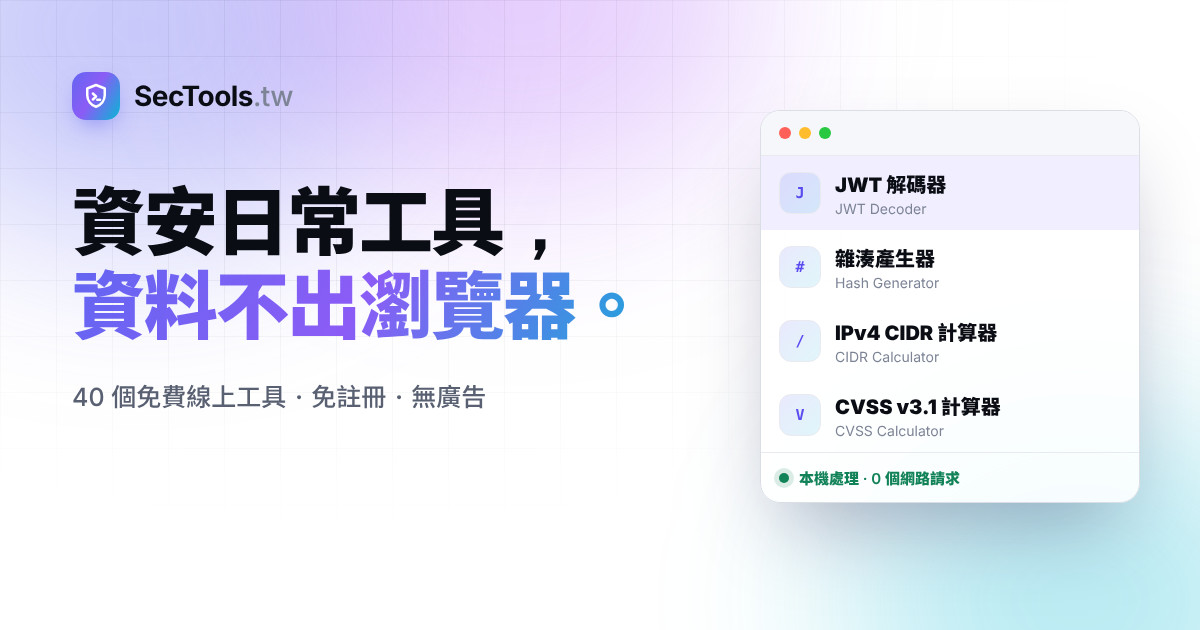
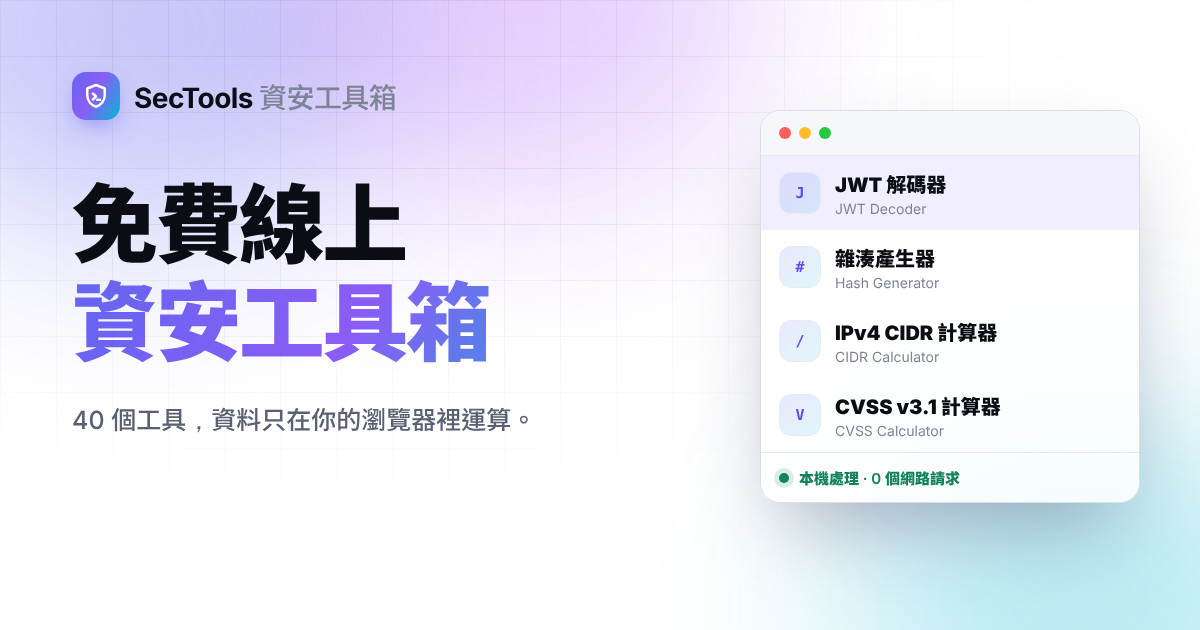
feat: name the site "SecTools 資安工具箱" with a keyword-first headline
- Brand name SecTools 資安工具箱 across logo, titles, Open Graph,
  manifest, structured data (alternate names SecTools / SecTools.tw)
- Home H1 「免費線上資安工具箱」 with subtitle and shorter lead
- Title template "%s｜SecTools 資安工具箱"; OG image updated

Claude-Session: https://claude.ai/code/session_01WmgTxuYVteLz1TVuK1VfHj

Changed region(s): [[0.0617, 0.2714, 0.5242, 0.573], [0.0617, 0.6032, 0.4317, 0.6937], [0.0925, 0.1206, 0.3392, 0.181]]

diff --git a/app/globals.css b/app/globals.css
@@ -113,8 +113,9 @@ kbd { display: inline-block; min-width: 20px; border: 1px solid var(--line-dark)
 .brand { display: inline-flex; align-items: center; gap: 10px; flex: 0 0 auto; }
 .brand-mark { width: 30px; height: 30px; display: grid; place-items: center; border-radius: 9px; background: var(--grad); box-shadow: 0 4px 14px -4px rgba(99, 102, 241, .6), inset 0 1px 0 rgba(255,255,255,.3); }
 .brand-mark svg { width: 19px; height: 19px; fill: none; stroke: #fff; stroke-width: 2; stroke-linecap: round; stroke-linejoin: round; }
+.brand-copy { display: flex; align-items: baseline; gap: 8px; }
 .brand-copy strong { font-size: 16px; font-weight: 700; letter-spacing: -.02em; }
-.brand-copy strong span { color: var(--subtle); font-weight: 500; }
+.brand-copy small { color: var(--muted); font-size: 13px; font-weight: 500; }
 .site-header nav { display: flex; gap: 4px; align-items: center; font-size: 14px; color: var(--muted); }
 .site-header nav a { padding: 7px 12px; border-radius: 999px; transition: color .2s, background .2s; }
 .site-header nav a:hover { color: var(--ink); background: var(--surface-2); }
@@ -173,7 +174,8 @@ kbd { display: inline-block; min-width: 20px; border: 1px solid var(--line-dark)
 .hero__badge:hover { border-color: var(--orange); box-shadow: 0 0 0 4px rgba(99, 102, 241, .1); }
 .hero__badge b { display: grid; place-items: center; width: 22px; height: 22px; border-radius: 50%; background: var(--surface-2); color: var(--orange); font-weight: 600; }
 .hero h1 { margin: 28px 0 0; font-size: clamp(42px, 7vw, 84px); line-height: 1.08; letter-spacing: -.045em; font-weight: 800; }
-.hero__lead { max-width: 680px; margin: 24px 0 36px; color: var(--muted); font-size: 18px; line-height: 1.8; }
+.hero__subtitle { margin: 22px 0 0; color: var(--ink-2); font-size: clamp(19px, 2.4vw, 24px); font-weight: 600; letter-spacing: -.01em; text-wrap: balance; }
+.hero__lead { max-width: 640px; margin: 14px 0 36px; color: var(--muted); font-size: 17px; line-height: 1.8; }
 .hero-search { width: min(640px, 100%); height: 60px; display: flex; align-items: center; gap: 12px; padding: 0 12px 0 20px; border: 1px solid var(--line-dark); border-radius: 999px; background: var(--glass); backdrop-filter: blur(14px); -webkit-backdrop-filter: blur(14px); box-shadow: var(--shadow); transition: border-color .2s, box-shadow .2s; }
 .hero-search:focus-within { border-color: var(--orange); box-shadow: 0 0 0 5px rgba(99, 102, 241, .14), var(--shadow); }
 .hero-search__icon { color: var(--subtle); width: 19px; height: 19px; }
@@ -698,8 +700,9 @@ kbd { display: inline-block; min-width: 20px; border: 1px solid var(--line-dark)
   .site-header { height: 58px; }
   .site-header__inner { gap: 12px; }
   .hero__inner { padding: 52px 0 40px; }
-  .hero h1 { margin-top: 22px; font-size: clamp(32px, 10.5vw, 44px); }
-  .hero__lead { margin: 18px 0 26px; font-size: 15.5px; }
+  .hero h1 { margin-top: 22px; font-size: clamp(40px, 13.5vw, 56px); }
+  .hero__subtitle { margin-top: 16px; }
+  .hero__lead { margin: 10px 0 26px; font-size: 15px; }
   .hero-search { height: 54px; padding: 0 10px 0 16px; }
   .hero-search kbd { display: none; }
   .hero__glow span:nth-child(1) { width: 300px; height: 300px; }

diff --git a/app/[slug]/page.tsx b/app/[slug]/page.tsx
@@ -4,7 +4,7 @@ import { notFound } from "next/navigation";
 import { SiteFooter, SiteHeader } from "@/components/site-shell";
 import { ToolActions } from "@/components/tool-actions";
 import { ToolWorkbench } from "@/components/tool-workbench";
-import { absoluteUrl, jsonLd, siteLocale, siteUrl } from "@/lib/site";
+import { absoluteUrl, jsonLd, siteLocale, siteName, siteUrl } from "@/lib/site";
 import { categoryOf, findTool, relatedTools, toolCatalog } from "@/lib/tool-catalog";
 
 export const dynamicParams = false;
@@ -27,13 +27,13 @@ export async function generateMetadata({ params }: { params: Promise<{ slug: str
     openGraph: {
       type: "website",
       locale: "zh_TW",
-      siteName: "SecTools.tw Toolkit",
-      title: `${title}｜SecTools.tw`,
+      siteName,
+      title: `${title}｜${siteName}`,
       description,
       url: `/${tool.slug}/`,
-      images: [{ url: "/og.jpg", width: 1200, height: 630, alt: `${tool.name}｜SecTools.tw 資安工具箱` }],
+      images: [{ url: "/og.jpg", width: 1200, height: 630, alt: `${tool.name}｜${siteName}` }],
     },
-    twitter: { card: "summary_large_image", title: `${tool.name}｜SecTools.tw`, description, images: ["/og.jpg"] },
+    twitter: { card: "summary_large_image", title: `${tool.name}｜${siteName}`, description, images: ["/og.jpg"] },
   };
 }
 
@@ -50,7 +50,7 @@ export default async function ToolPage({ params }: { params: Promise<{ slug: str
   };
   const faqs = [
     { question: `${tool.name}會上傳我的資料嗎？`, answer: "不會。工具不會發出任何網路請求，輸入與結果只存在目前的分頁。打開開發者工具的 Network 面板，就能自己確認。" },
-    { question: `${tool.name}要付費或註冊嗎？`, answer: `都不用。${tool.name}和 SecTools.tw 上的其他工具一樣，免費、免帳號，也沒有次數限制。` },
+    { question: `${tool.name}要付費或註冊嗎？`, answer: `都不用。${tool.name}和 SecTools 資安工具箱裡的其他工具一樣，免費、免帳號，也沒有次數限制。` },
     { question: `手機或離線環境可以用${tool.name}嗎？`, answer: "可以。手機與電腦瀏覽器都能使用，頁面載入後斷網也能繼續運算。需要在內網使用，也可以從 GitHub 取得原始碼自行部署。" },
     { question: `${tool.name}的結果可以直接當作正式判定嗎？`, answer: "建議當作初步分析與交叉比對使用。重要事件請保留原始證據，並以正式的驗證或鑑識流程確認。" },
   ];

diff --git a/app/about/page.tsx b/app/about/page.tsx
@@ -1,20 +1,21 @@
 import type { Metadata } from "next";
 import Link from "next/link";
 import { SiteFooter, SiteHeader } from "@/components/site-shell";
+import { siteName } from "@/lib/site";
 import { categories, toolCatalog } from "@/lib/tool-catalog";
 
 export const metadata: Metadata = {
-  title: "關於 SecTools.tw 與隱私承諾",
-  description: "SecTools.tw Toolkit 是開放原始碼、完全在瀏覽器本機運算的繁體中文資安工具箱。了解我們如何處理資料、本機儲存哪些設定，以及如何自行驗證。",
+  title: "關於我們與隱私承諾",
+  description: "SecTools 資安工具箱是開放原始碼、完全在瀏覽器本機運算的繁體中文資安工具箱。了解我們如何處理資料、本機儲存哪些設定，以及如何自行驗證。",
   alternates: { canonical: "/about/" },
   openGraph: {
     type: "website",
     locale: "zh_TW",
-    siteName: "SecTools.tw Toolkit",
-    title: "關於 SecTools.tw 與隱私承諾",
+    siteName,
+    title: `關於 ${siteName}與隱私承諾`,
     description: "開放原始碼、完全在瀏覽器本機運算的繁體中文資安工具箱：不上傳、不追蹤、可自行部署。",
     url: "/about/",
-    images: [{ url: "/og.jpg", width: 1200, height: 630, alt: "SecTools.tw 免費線上資安工具箱" }],
+    images: [{ url: "/og.jpg", width: 1200, height: 630, alt: siteName }],
   },
 };
 
@@ -36,9 +37,9 @@ export default function AboutPage() {
               <Link href="/">工具庫</Link><span aria-hidden="true">/</span><strong aria-current="page">關於與隱私</strong>
             </nav>
             <span className="section-kicker">ABOUT · PRIVACY</span>
-            <h1>關於 SecTools.tw</h1>
+            <h1>關於 SecTools 資安工具箱</h1>
             <p className="category-hero__lead">
-              SecTools.tw Toolkit 是給資安工程師、SOC 分析師、開發者與 CTF 選手的免費工作台。我們相信處理 Token、日誌與惡意樣本時，
+              SecTools 資安工具箱是給資安工程師、SOC 分析師、開發者與 CTF 選手的免費工作台。我們相信處理 Token、日誌與惡意樣本時，
               最安全的做法是讓資料根本不離開你的電腦——所以 {toolCatalog.length} 個工具全部在瀏覽器本機執行。
             </p>
           </div>

diff --git a/app/page.tsx b/app/page.tsx
@@ -12,7 +12,7 @@ export default function Home() {
       "@type": "WebSite",
       "@id": `${siteUrl}/#website`,
       name: siteName,
-      alternateName: ["SecTools", "SecTools.tw 資安工具箱"],
+      alternateName: ["SecTools", "SecTools.tw", "資安工具箱"],
       url: `${siteUrl}/`,
       inLanguage: siteLocale,
       description: "免費線上資安工具箱，所有運算都在瀏覽器本機完成，資料不會上傳。",
@@ -35,7 +35,7 @@ export default function Home() {
     {
       "@context": "https://schema.org",
       "@type": "ItemList",
-      name: "SecTools.tw 線上資安工具",
+      name: `${siteName}：線上資安工具清單`,
       numberOfItems: toolCatalog.length,
       itemListElement: toolCatalog.map((tool, index) => ({
         "@type": "ListItem",
@@ -58,7 +58,7 @@ export default function Home() {
             <div className="section-heading section-heading--center">
               <span className="section-kicker">WHY SECTOOLS</span>
               <h2 id="features-title">敏感資料，留在你的電腦裡。</h2>
-              <p>多數線上工具會把你貼上的內容送到伺服器處理。SecTools.tw 不這麼做：所有運算都由瀏覽器內建的 JavaScript 與 Web Crypto API 完成。</p>
+              <p>多數線上工具會把你貼上的內容送到伺服器處理。SecTools 不這麼做：所有運算都由瀏覽器內建的 JavaScript 與 Web Crypto API 完成。</p>
             </div>
             <div className="bento">
               <article className="bento__card bento__card--hero">

diff --git a/app/layout.tsx b/app/layout.tsx
@@ -7,14 +7,14 @@ import "./globals.css";
 const inter = localFont({ src: "./fonts/inter-latin-var.woff2", variable: "--font-inter", weight: "100 900", display: "swap" });
 
 const toolCount = toolCatalog.length;
-const shareTitle = `SecTools.tw｜${toolCount} 個免費線上資安工具，資料不出瀏覽器`;
+const shareTitle = `${siteName}｜${toolCount} 個免費線上資安工具`;
 const shareDescription = `JWT 解碼、Hash、CIDR、CVSS、IOC、PCAP 與 CTF 工具一次收齊。免註冊、無廣告，貼上的內容只在你的電腦上運算。`;
 
 export const metadata: Metadata = {
   metadataBase: new URL(siteUrl),
   title: {
-    default: "免費線上資安工具箱：JWT 解碼、Hash、CIDR、CVSS 與 CTF 工具｜SecTools.tw",
-    template: "%s｜SecTools.tw",
+    default: `${siteName}｜免費線上 JWT、Hash、CIDR、CVSS 與 CTF 工具`,
+    template: `%s｜${siteName}`,
   },
   description: `${toolCount} 個免費線上資安工具：JWT 解碼與驗簽、Hash／HMAC、CIDR 與 IPv6 計算、CVSS 評分、IOC 擷取、PCAP 分析與 CTF 解題。免註冊、無廣告，資料全程在瀏覽器處理，不會上傳。`,
   applicationName: siteName,
@@ -44,7 +44,7 @@ export const metadata: Metadata = {
     title: shareTitle,
     description: shareDescription,
     url: "/",
-    images: [{ url: "/og.jpg", width: 1200, height: 630, alt: "SecTools.tw 免費線上資安工具箱" }],
+    images: [{ url: "/og.jpg", width: 1200, height: 630, alt: siteName }],
   },
   twitter: {
     card: "summary_large_image",

diff --git a/components/home-client.tsx b/components/home-client.tsx
@@ -113,8 +113,9 @@ export function HomeClient({ tools, categories }: { tools: ToolSummary[]; catego
             <span>{tools.length} 個工具・100% 本機運算</span>
             <b aria-hidden="true">→</b>
           </a>
-          <h1>資安日常工具，<br /><span className="gradient-text">資料不出瀏覽器。</span></h1>
-          <p className="hero__lead">JWT 解碼、Hash 計算、CIDR 換算、CVSS 評分、IOC 擷取⋯⋯{tools.length} 個資安工程師、SOC 分析師與 CTF 玩家天天用到的工具，打開就能用。不用註冊、沒有廣告，貼上的內容只在你的電腦上運算。</p>
+          <h1>免費線上<br /><span className="gradient-text">資安工具箱</span></h1>
+          <p className="hero__subtitle">{tools.length} 個工具，資料只在你的瀏覽器裡運算。</p>
+          <p className="hero__lead">JWT 解碼、Hash 計算、CIDR 換算、CVSS 評分、IOC 擷取⋯⋯資安工程師、SOC 分析師與 CTF 玩家天天用到的工具，不用註冊、沒有廣告，打開就能用。</p>
           <div className="hero-search" role="search">
             <svg className="hero-search__icon" viewBox="0 0 20 20" aria-hidden="true"><circle cx="8.5" cy="8.5" r="5.5" /><path d="m13 13 4 4" /></svg>
             <label className="sr-only" htmlFor="tool-search">搜尋資安工具</label>

diff --git a/app/categories/[slug]/page.tsx b/app/categories/[slug]/page.tsx
@@ -2,7 +2,7 @@ import type { Metadata } from "next";
 import Link from "next/link";
 import { notFound } from "next/navigation";
 import { SiteFooter, SiteHeader } from "@/components/site-shell";
-import { absoluteUrl, jsonLd, siteUrl } from "@/lib/site";
+import { absoluteUrl, jsonLd, siteName, siteUrl } from "@/lib/site";
 import { categories, findCategory, toolCatalog } from "@/lib/tool-catalog";
 
 export const dynamicParams = false;
@@ -24,11 +24,11 @@ export async function generateMetadata({ params }: { params: Promise<{ slug: str
     openGraph: {
       type: "website",
       locale: "zh_TW",
-      siteName: "SecTools.tw Toolkit",
-      title: `${title}｜SecTools.tw`,
+      siteName,
+      title: `${title}｜${siteName}`,
       description: category.summary,
       url: `/categories/${category.slug}/`,
-      images: [{ url: "/og.jpg", width: 1200, height: 630, alt: `${category.title}｜SecTools.tw` }],
+      images: [{ url: "/og.jpg", width: 1200, height: 630, alt: `${category.title}｜${siteName}` }],
     },
   };
 }

diff --git a/components/site-shell.tsx b/components/site-shell.tsx
@@ -8,12 +8,13 @@ const toolSummaries = toolCatalog.map(toSummary);
 
 export function Brand() {
   return (
-    <Link className="brand" href="/" aria-label="SecTools.tw Toolkit 首頁">
+    <Link className="brand" href="/" aria-label="SecTools 資安工具箱 首頁">
       <span className="brand-mark" aria-hidden="true">
         <svg viewBox="0 0 24 24"><path d="M12 3.2 5 6v5.4c0 4.3 3 7.9 7 9.2 4-1.3 7-4.9 7-9.2V6Z" /><path d="m9.5 10 2.5 2.4-2.5 2.4M13 15h2.2" /></svg>
       </span>
       <span className="brand-copy">
-        <strong>SecTools<span>.tw</span></strong>
+        <strong>SecTools</strong>
+        <small>資安工具箱</small>
       </span>
     </Link>
   );

diff --git a/lib/site.ts b/lib/site.ts
@@ -1,5 +1,5 @@
 export const siteUrl = (process.env.NEXT_PUBLIC_SITE_URL ?? "https://tools.sectools.tw").replace(/\/$/, "");
-export const siteName = "SecTools.tw Toolkit";
+export const siteName = "SecTools 資安工具箱";
 export const siteShortName = "SecTools";
 export const siteLocale = "zh-Hant-TW";
 

diff --git a/README.md b/README.md
@@ -1,4 +1,4 @@
-# SecTools.tw Toolkit
+# SecTools 資安工具箱
 
 一個真的能用、可稽核、可部署到 GitHub Pages 的繁體中文資安工具庫。所有工具預設只在瀏覽器本機運算，不含分析腳本、廣告或後端 API。
 
